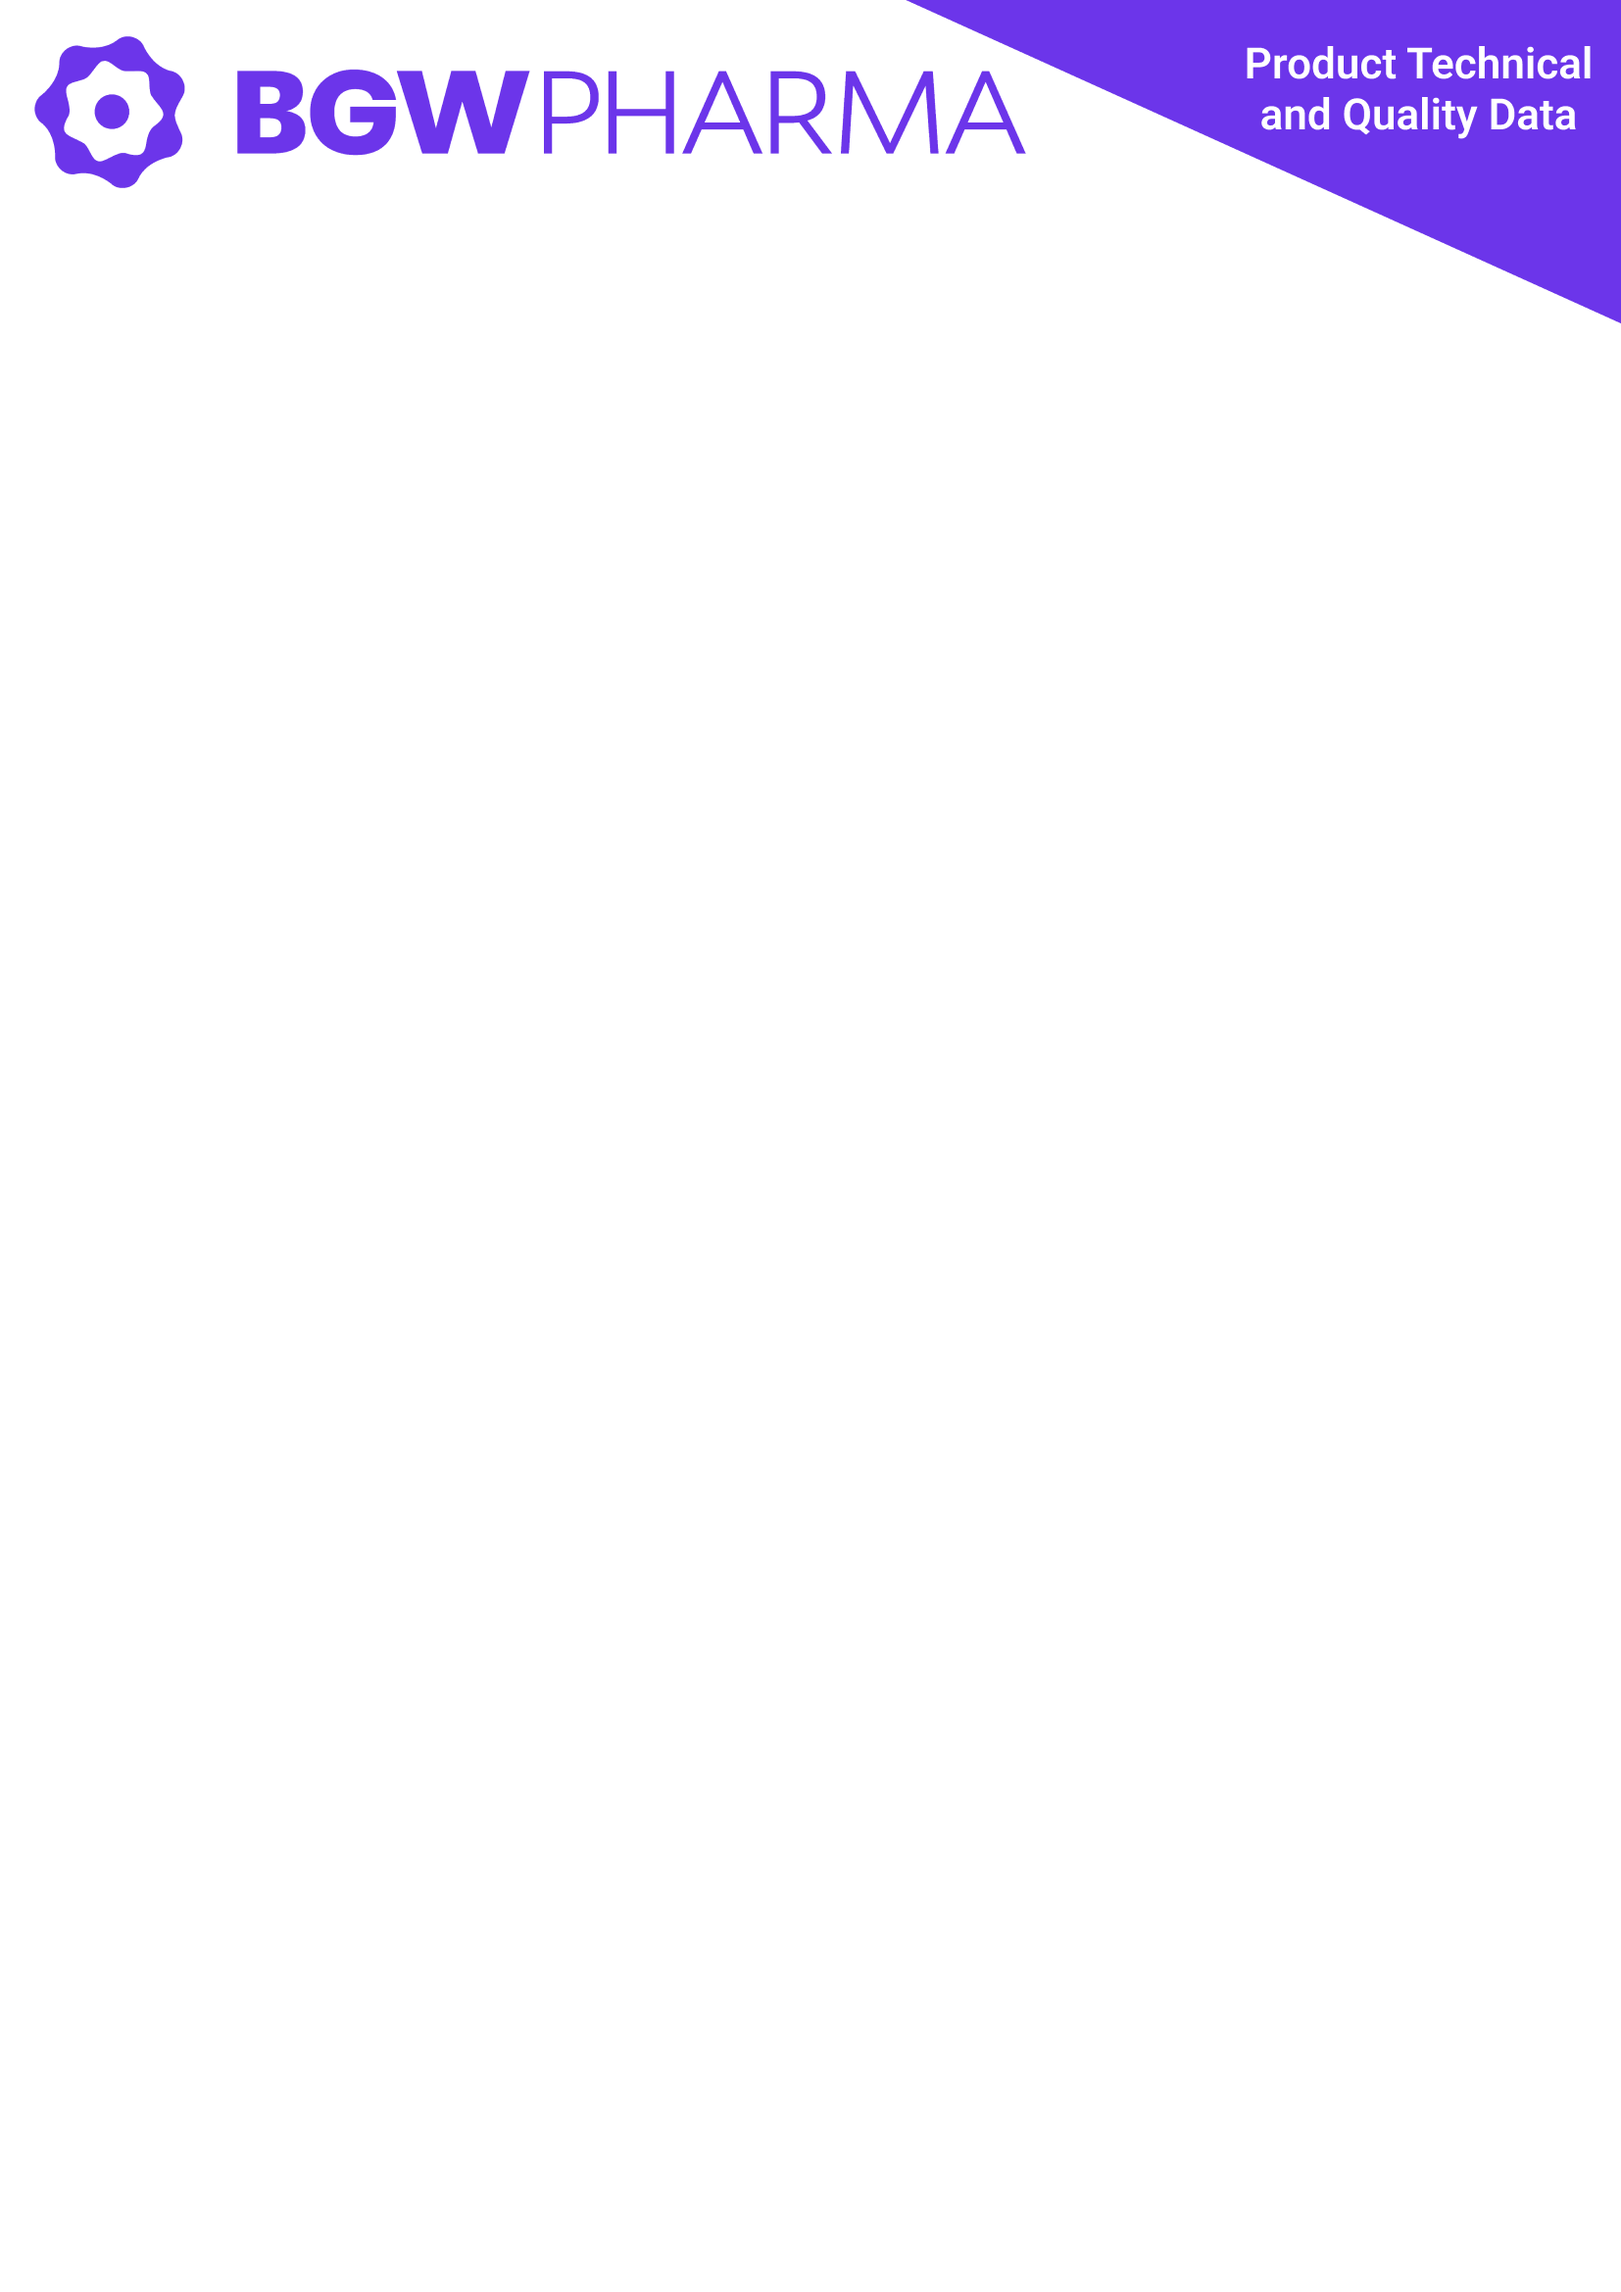
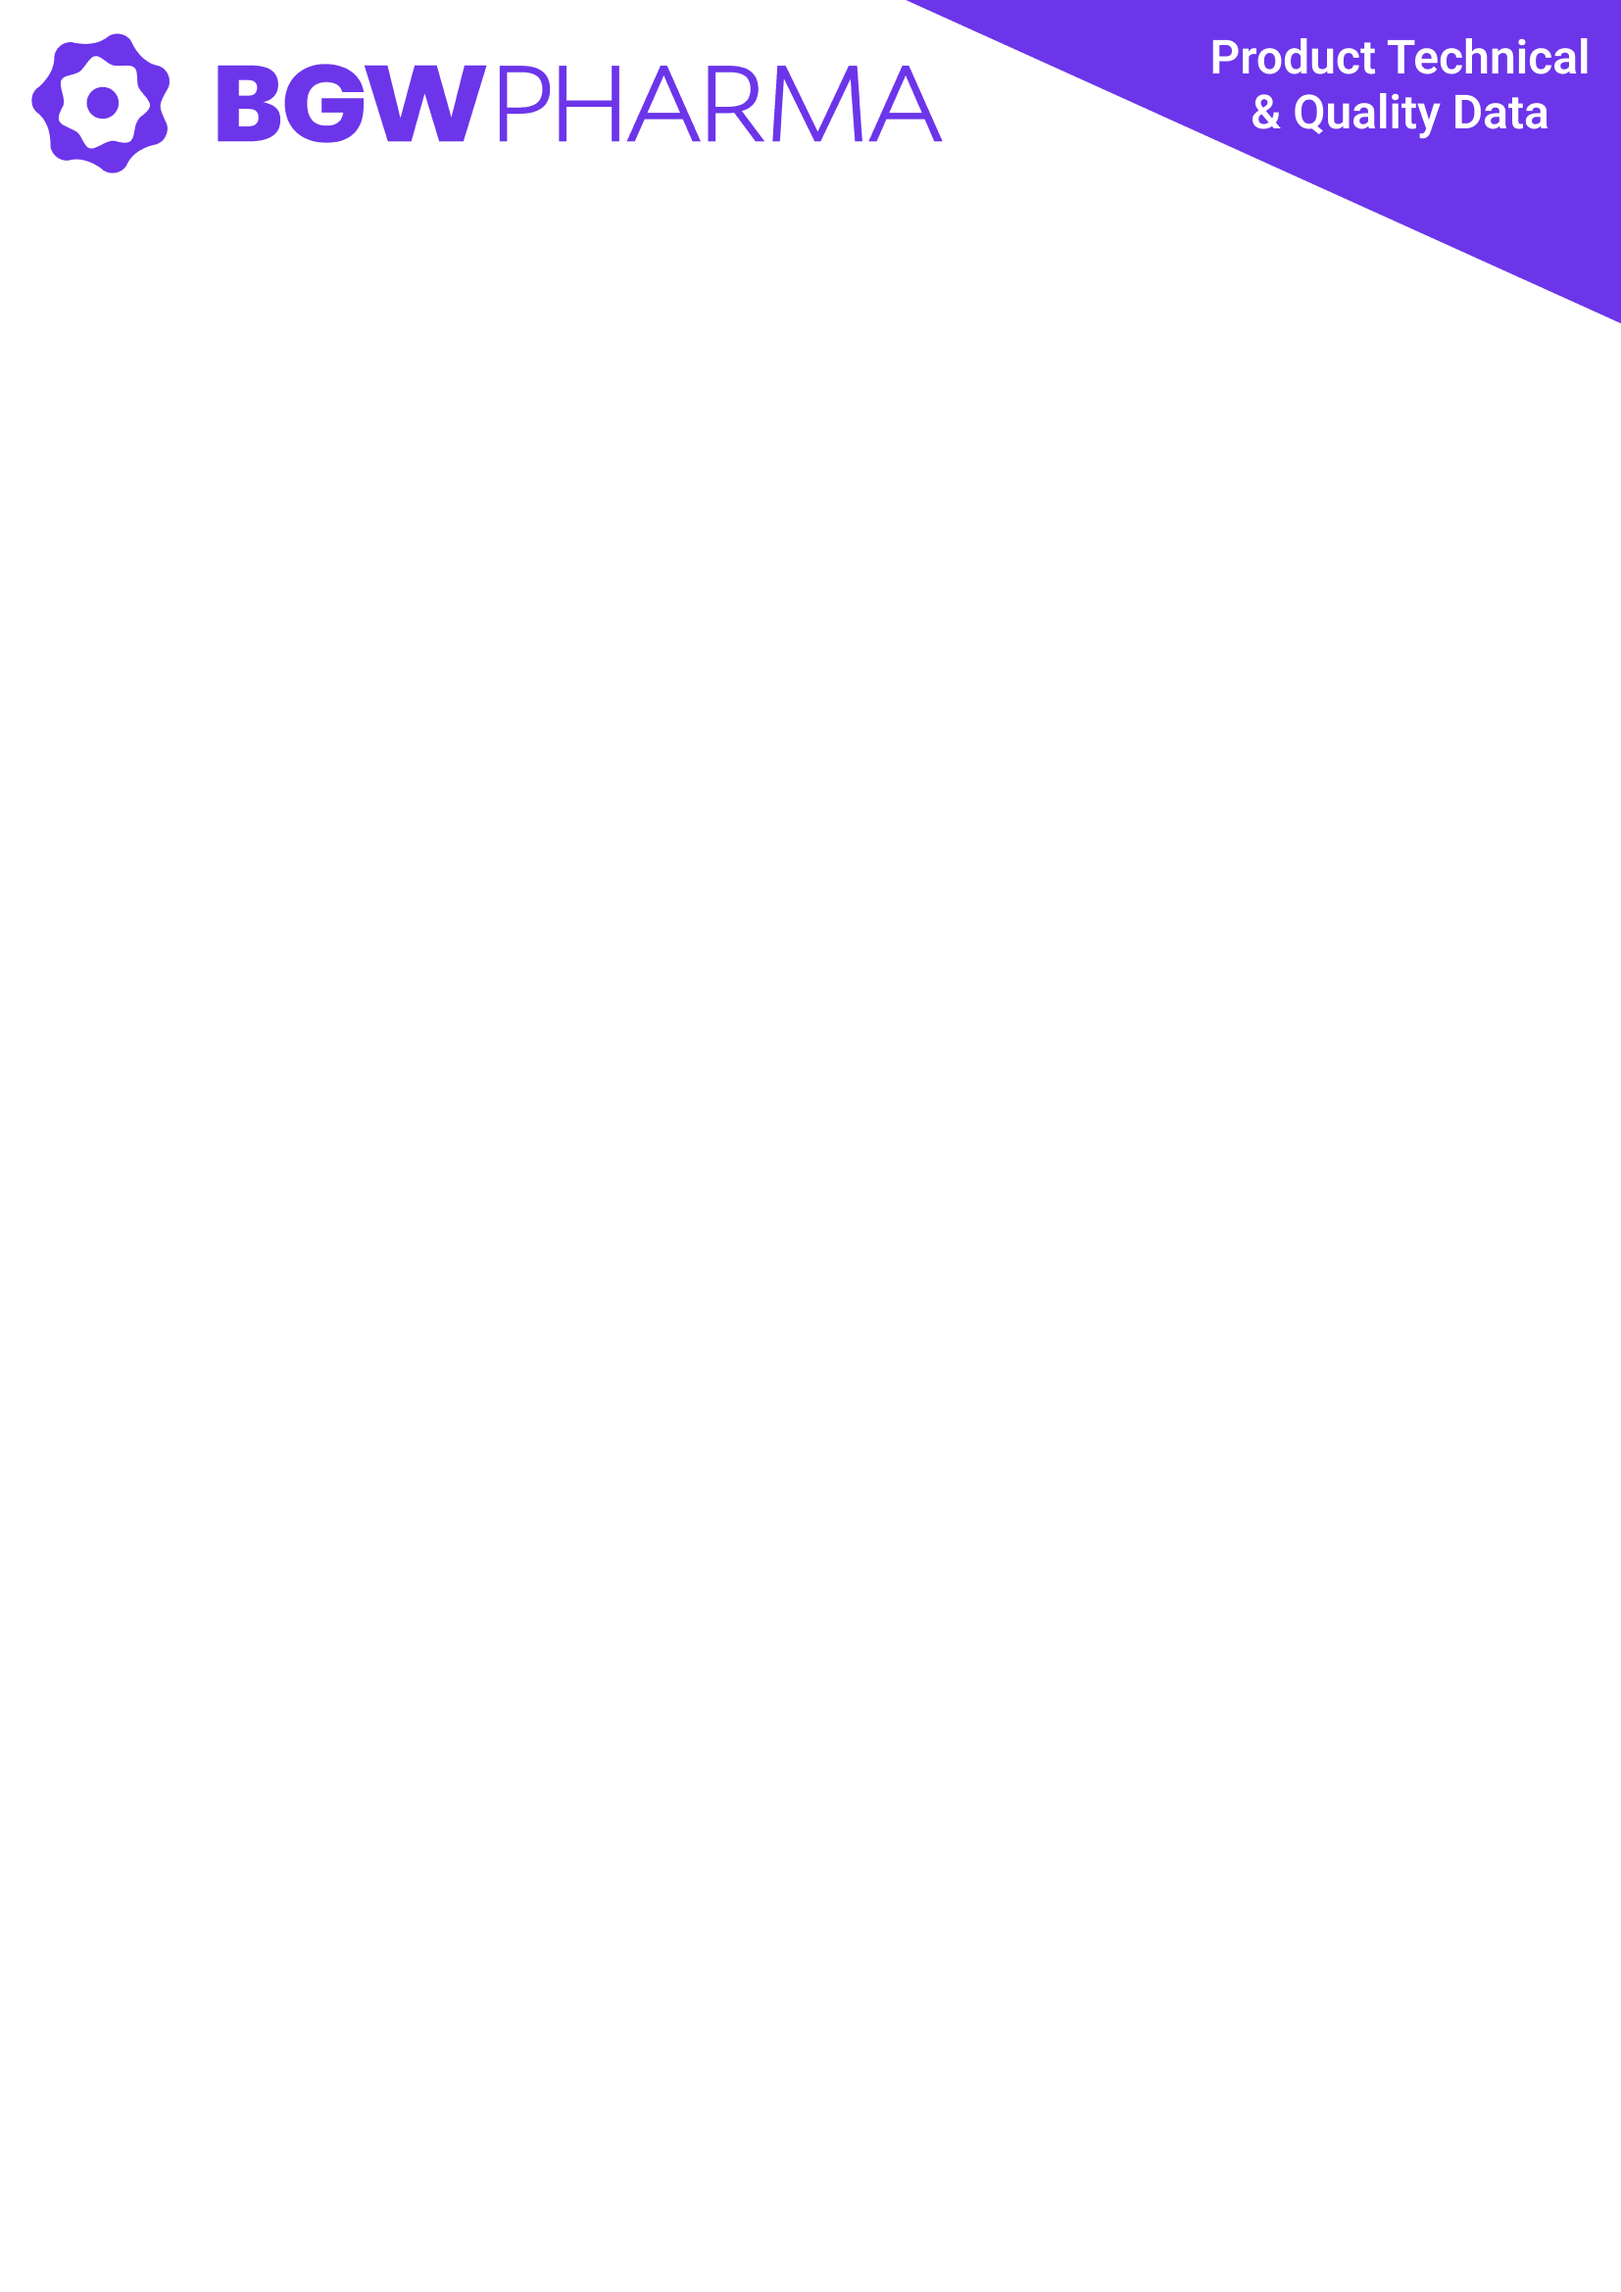
Update application version to 0.1.104 in package-lock.json. Enhance end product report generation by adding company information section, including details such as address, NIP, REGON, email, phone, and website. Introduce a new template image for end product reports.

Changed region(s): [[0.0308, 0.0, 0.6475, 0.0936], [0.74, 0.0, 0.9867, 0.0624]]

diff --git a/src/services/endProductReportService.js b/src/services/endProductReportService.js
@@ -624,23 +624,93 @@ export const generateEndProductReportPDF = async (task, additionalData = {}) => 
       currentY += 5;
     };
 
-    // Introduction text
+    // Introduction text with company information
     const productName = task?.recipeName || task?.productName || 'the manufactured product';
-    const introductionText = `This report constitutes a comprehensive technical and quality documentation concerning the finished product ${productName}. It has been prepared based on production data, ingredient specifications, quality control records, and bibliographic research documentation. Its purpose is to ensure full transparency and compliance of the manufacturing process with the internal standards of BGW Pharma Sp. z o.o., as well as with the quality standards applicable to dietary supplements.`;
     
-    checkPageBreak(50); // Zwiększono dla większej zawartości
+    // Prepare company information for introduction with Polish character normalization
+    const companyName = normalizePolishChars(companyData?.name || 'BGW Pharma Sp. z o.o.');
+    const companyAddress = companyData?.address ? normalizePolishChars(`${companyData.address}`) : '';
+    const companyCity = companyData?.city ? normalizePolishChars(companyData.city) : '';
+    const companyFullAddress = [companyAddress, companyCity].filter(Boolean).join(', ');
+    const companyNip = companyData?.nip || '';
+    const companyRegon = companyData?.regon || '';
+    const companyEmail = companyData?.email || '';
+    const companyPhone = companyData?.phone || '';
+    const companyWebsite = companyData?.website || '';
+    
+    checkPageBreak(80); // Zwiększono dla większej zawartości z danymi firmy
     doc.setTextColor(85, 85, 85);
     doc.setFontSize(11);
     doc.setFont('helvetica', 'bold');
     doc.text('Introduction:', margin, currentY);
     currentY += 8;
+    
+    // Company information section
     doc.setTextColor(85, 85, 85);
-    doc.setFontSize(11);
+    doc.setFontSize(10);
+    doc.setFont('helvetica', 'bold');
+    doc.text('Company Information:', margin, currentY);
+    currentY += 6;
+    
+    doc.setTextColor(85, 85, 85);
+    doc.setFontSize(10);
     doc.setFont('helvetica', 'normal');
+    
+    // Add company details
+    if (companyName) {
+      doc.text(`Company Name: ${companyName}`, margin, currentY);
+      currentY += 5;
+    }
+    
+    if (companyFullAddress) {
+      const addressLines = doc.splitTextToSize(`Address: ${companyFullAddress}`, contentWidth);
+      doc.text(addressLines, margin, currentY);
+      currentY += Math.max(5, addressLines.length * 4);
+    }
+    
+    if (companyNip) {
+      doc.text(`NIP: ${companyNip}`, margin, currentY);
+      currentY += 5;
+    }
+    
+    if (companyRegon) {
+      doc.text(`REGON: ${companyRegon}`, margin, currentY);
+      currentY += 5;
+    }
+    
+    if (companyEmail) {
+      doc.text(`Email: ${companyEmail}`, margin, currentY);
+      currentY += 5;
+    }
+    
+    if (companyPhone) {
+      doc.text(`Phone: ${companyPhone}`, margin, currentY);
+      currentY += 5;
+    }
+    
+    if (companyWebsite) {
+      doc.text(`Website: ${companyWebsite}`, margin, currentY);
+      currentY += 5;
+    }
+    
+    currentY += 8;
+    
+    // Product report description
+    doc.setTextColor(85, 85, 85);
+    doc.setFontSize(10);
+    doc.setFont('helvetica', 'bold');
+    doc.text('Report Description:', margin, currentY);
+    currentY += 6;
+    
+    doc.setTextColor(85, 85, 85);
+    doc.setFontSize(10);
+    doc.setFont('helvetica', 'normal');
+    
+    const introductionText = `This report constitutes a comprehensive technical and quality documentation concerning the finished product ${productName}. It has been prepared based on production data, ingredient specifications, quality control records, and bibliographic research documentation. Its purpose is to ensure full transparency and compliance of the manufacturing process with the internal standards of ${companyName}, as well as with the quality standards applicable to dietary supplements.`;
     
     const introLines = doc.splitTextToSize(introductionText, contentWidth);
     doc.text(introLines, margin, currentY);
-    currentY += Math.max(20, introLines.length * 5);
+    currentY += Math.max(15, introLines.length * 5);
     
     // Add detailed information section
     currentY += 8;
